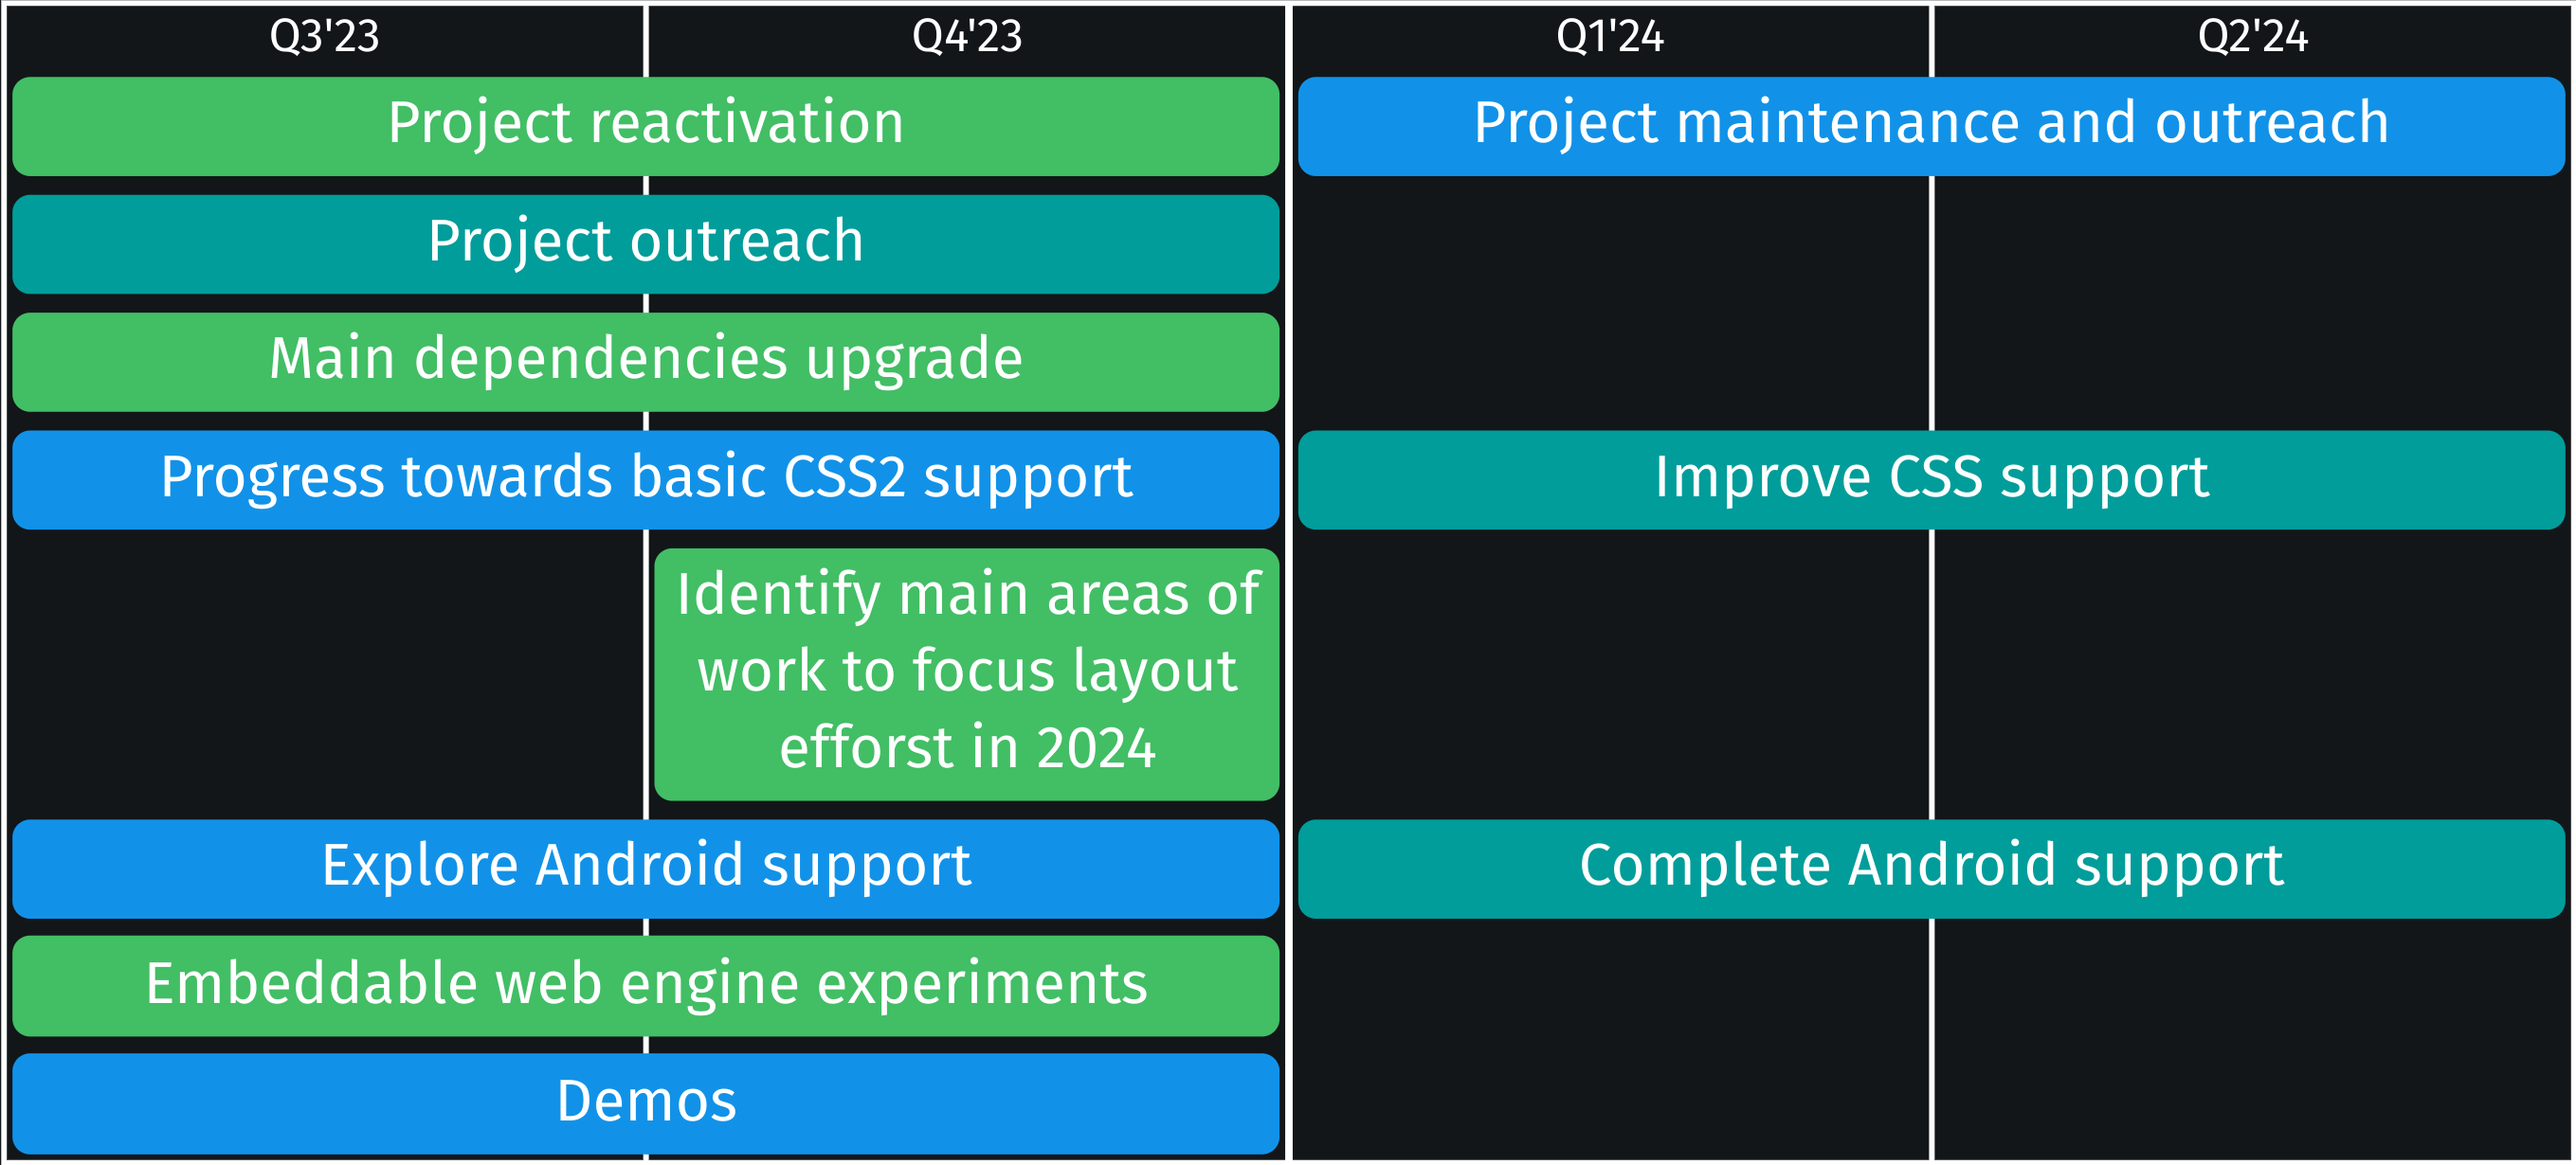
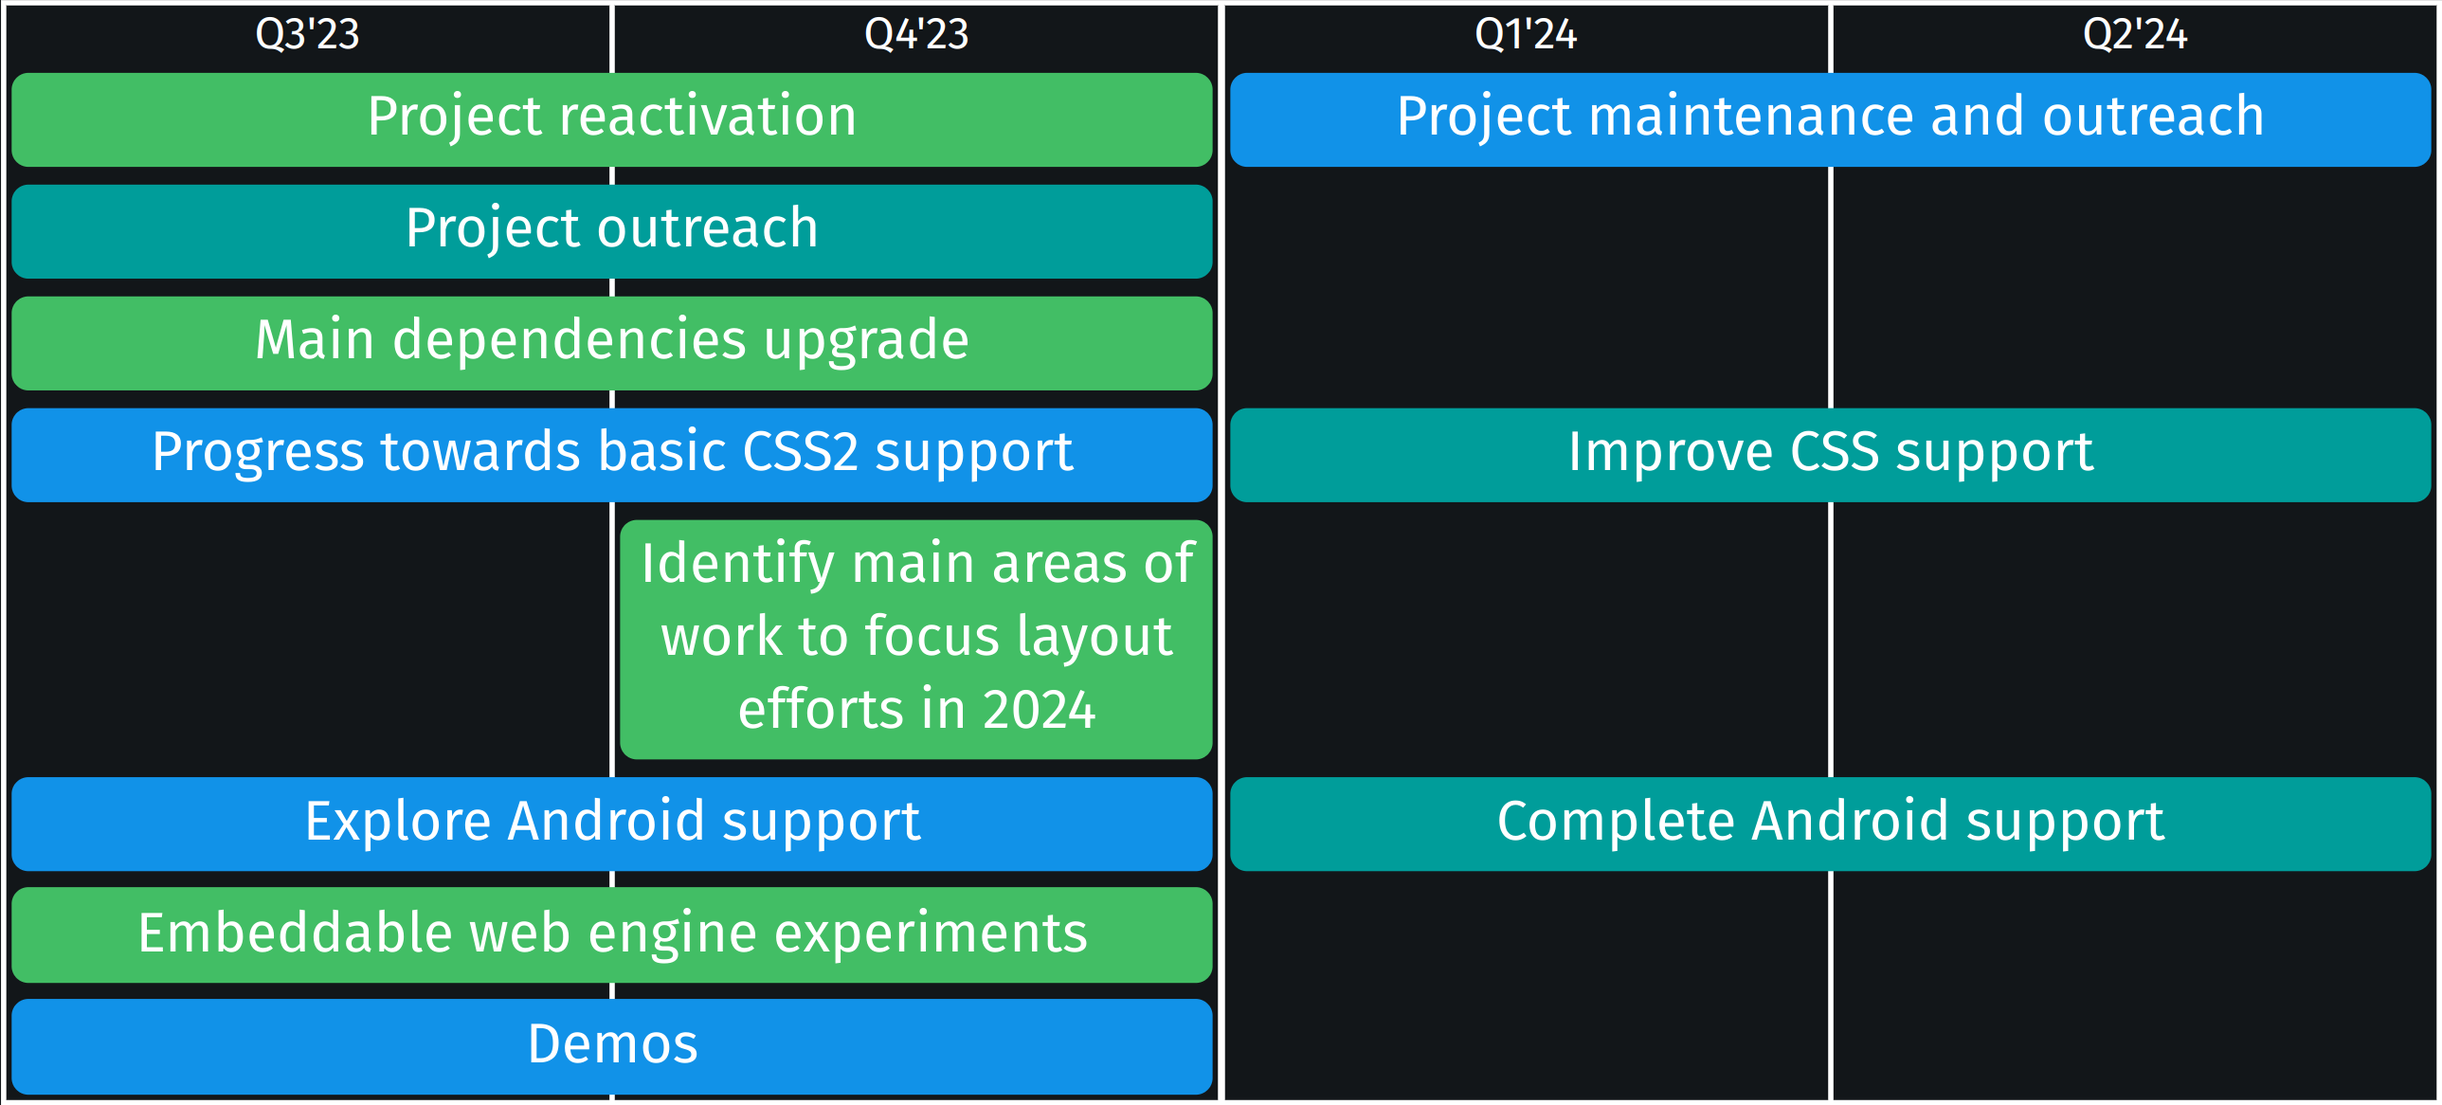
Fix typo

diff --git a/slides/servo.md b/slides/servo.md
@@ -56,23 +56,28 @@ Note:
 
 -----
 
-## 2023 Roadmap
+## Roadmap H2'23-H1'24
 
 <div style="display: grid; grid-template-columns: repeat(4, 1fr); grid-template-rows: 1em; font-size: 0.5em; grid-gap: 0.1em; padding: 0.1em; background: white; margin: 1em;">
 
-  <div style="background: #121619; text-align: center; font-size: 0.8em; grid-area: 1/1/9;">Q1</div>
-  <div style="background: #121619; text-align: center; font-size: 0.8em; grid-area: 1/2/9;">Q2</div>
-  <div style="background: #121619; text-align: center; font-size: 0.8em; grid-area: 1/3/9;">Q3</div>
-  <div style="background: #121619; text-align: center; font-size: 0.8em; grid-area: 1/4/9;">Q4</div>
-  <div style="padding: 0.2em; grid-column: 1 / 5; grid-row: 2; background: #42be65; text-align: center; border-radius: 0.3em; margin: 0.1em;">Project reactivation</div>
-  <div style="padding: 0.2em; grid-column: 1 / 5; grid-row: 3; background: #009d9a; text-align: center; border-radius: 0.3em; margin: 0.1em;">Project outreach</div>
-  <div style="padding: 0.2em; grid-column: 1 / 4; grid-row: 4; background: #1192e8; text-align: center; border-radius: 0.3em; margin: 0.1em;">Main dependencies upgrade</div>
-  <div style="padding: 0.2em; grid-column: 1 / 3; grid-row: 5; background: #42be65; text-align: center; border-radius: 0.3em; margin: 0.1em;">Layout engine selection</div>
-  <div style="padding: 0.2em; grid-column: 3 / 5; grid-row: 6; background: #009d9a; text-align: center; border-radius: 0.3em; margin: 0.1em;">Progress towards basic CSS2 support</div>
-  <div style="padding: 0.2em; grid-column: 3 / 5; grid-row: 7; background: #1192e8; text-align: center; border-radius: 0.3em; margin: 0.1em;">Explore Android support</div>
-  <div style="padding: 0.2em; grid-column: 4 / 5; grid-row: 8; background: #42be65; text-align: center; border-radius: 0.3em; margin: 0.1em;">Embeddable web engine experiments</div>
+  <div style="background: #121619; text-align: center; font-size: 0.8em; grid-area: 1/1/10;">Q3'23</div>
+  <div style="background: #121619; text-align: center; font-size: 0.8em; grid-area: 1/2/10;">Q4'23</div>
+  <div style="background: #121619; text-align: center; font-size: 0.8em; grid-area: 1/3/10;">Q1'24</div>
+  <div style="background: #121619; text-align: center; font-size: 0.8em; grid-area: 1/4/10;">Q2'24</div>
+  <div style="padding: 0.2em; grid-column: 1 / 3; grid-row: 2; background: #42be65; text-align: center; border-radius: 0.3em; margin: 0.1em;">Project reactivation</div>
+  <div style="padding: 0.2em; grid-column: 3 / 5; grid-row: 2; background: #1192e8; text-align: center; border-radius: 0.3em; margin: 0.1em;">Project maintenance and outreach</div>
+  <div style="padding: 0.2em; grid-column: 1 / 3; grid-row: 3; background: #009d9a; text-align: center; border-radius: 0.3em; margin: 0.1em;">Project outreach</div>
+  <div style="padding: 0.2em; grid-column: 1 / 3; grid-row: 4; background: #42be65; text-align: center; border-radius: 0.3em; margin: 0.1em;">Main dependencies upgrade</div>
+  <div style="padding: 0.2em; grid-column: 1 / 3; grid-row: 5; background: #1192e8; text-align: center; border-radius: 0.3em; margin: 0.1em;">Progress towards basic CSS2 support</div>
+  <div style="padding: 0.2em; grid-column: 3 / 5; grid-row: 5; background: #009d9a; text-align: center; border-radius: 0.3em; margin: 0.1em;">Improve CSS support</div>
+  <div style="padding: 0.2em; grid-column: 2 / 3; grid-row: 6; background: #42be65; text-align: center; border-radius: 0.3em; margin: 0.1em;">Identify main areas of work to focus layout efforts in 2024</div>
+  <div style="padding: 0.2em; grid-column: 1 / 3; grid-row: 7; background: #1192e8; text-align: center; border-radius: 0.3em; margin: 0.1em;">Explore Android support</div>
+  <div style="padding: 0.2em; grid-column: 3 / 5; grid-row: 7; background: #009d9a; text-align: center; border-radius: 0.3em; margin: 0.1em;">Complete Android support</div>
+  <div style="padding: 0.2em; grid-column: 1 / 3; grid-row: 8; background: #42be65; text-align: center; border-radius: 0.3em; margin: 0.1em;">Embeddable web engine experiments</div>
+  <div style="padding: 0.2em; grid-column: 1 / 3; grid-row: 9; background: #1192e8; text-align: center; border-radius: 0.3em; margin: 0.1em;">Demos</div>
 
 </div>
+
 
 <https://github.com/servo/servo/wiki/Roadmap>
 

diff --git a/slides/roadmap.md b/slides/roadmap.md
@@ -23,7 +23,7 @@ title: Servo Roadmap
   <div style="padding: 0.2em; grid-column: 1 / 3; grid-row: 4; background: #42be65; text-align: center; border-radius: 0.3em; margin: 0.1em;">Main dependencies upgrade</div>
   <div style="padding: 0.2em; grid-column: 1 / 3; grid-row: 5; background: #1192e8; text-align: center; border-radius: 0.3em; margin: 0.1em;">Progress towards basic CSS2 support</div>
   <div style="padding: 0.2em; grid-column: 3 / 5; grid-row: 5; background: #009d9a; text-align: center; border-radius: 0.3em; margin: 0.1em;">Improve CSS support</div>
-  <div style="padding: 0.2em; grid-column: 2 / 3; grid-row: 6; background: #42be65; text-align: center; border-radius: 0.3em; margin: 0.1em;">Identify main areas of work to focus layout efforst in 2024</div>
+  <div style="padding: 0.2em; grid-column: 2 / 3; grid-row: 6; background: #42be65; text-align: center; border-radius: 0.3em; margin: 0.1em;">Identify main areas of work to focus layout efforts in 2024</div>
   <div style="padding: 0.2em; grid-column: 1 / 3; grid-row: 7; background: #1192e8; text-align: center; border-radius: 0.3em; margin: 0.1em;">Explore Android support</div>
   <div style="padding: 0.2em; grid-column: 3 / 5; grid-row: 7; background: #009d9a; text-align: center; border-radius: 0.3em; margin: 0.1em;">Complete Android support</div>
   <div style="padding: 0.2em; grid-column: 1 / 3; grid-row: 8; background: #42be65; text-align: center; border-radius: 0.3em; margin: 0.1em;">Embeddable web engine experiments</div>
